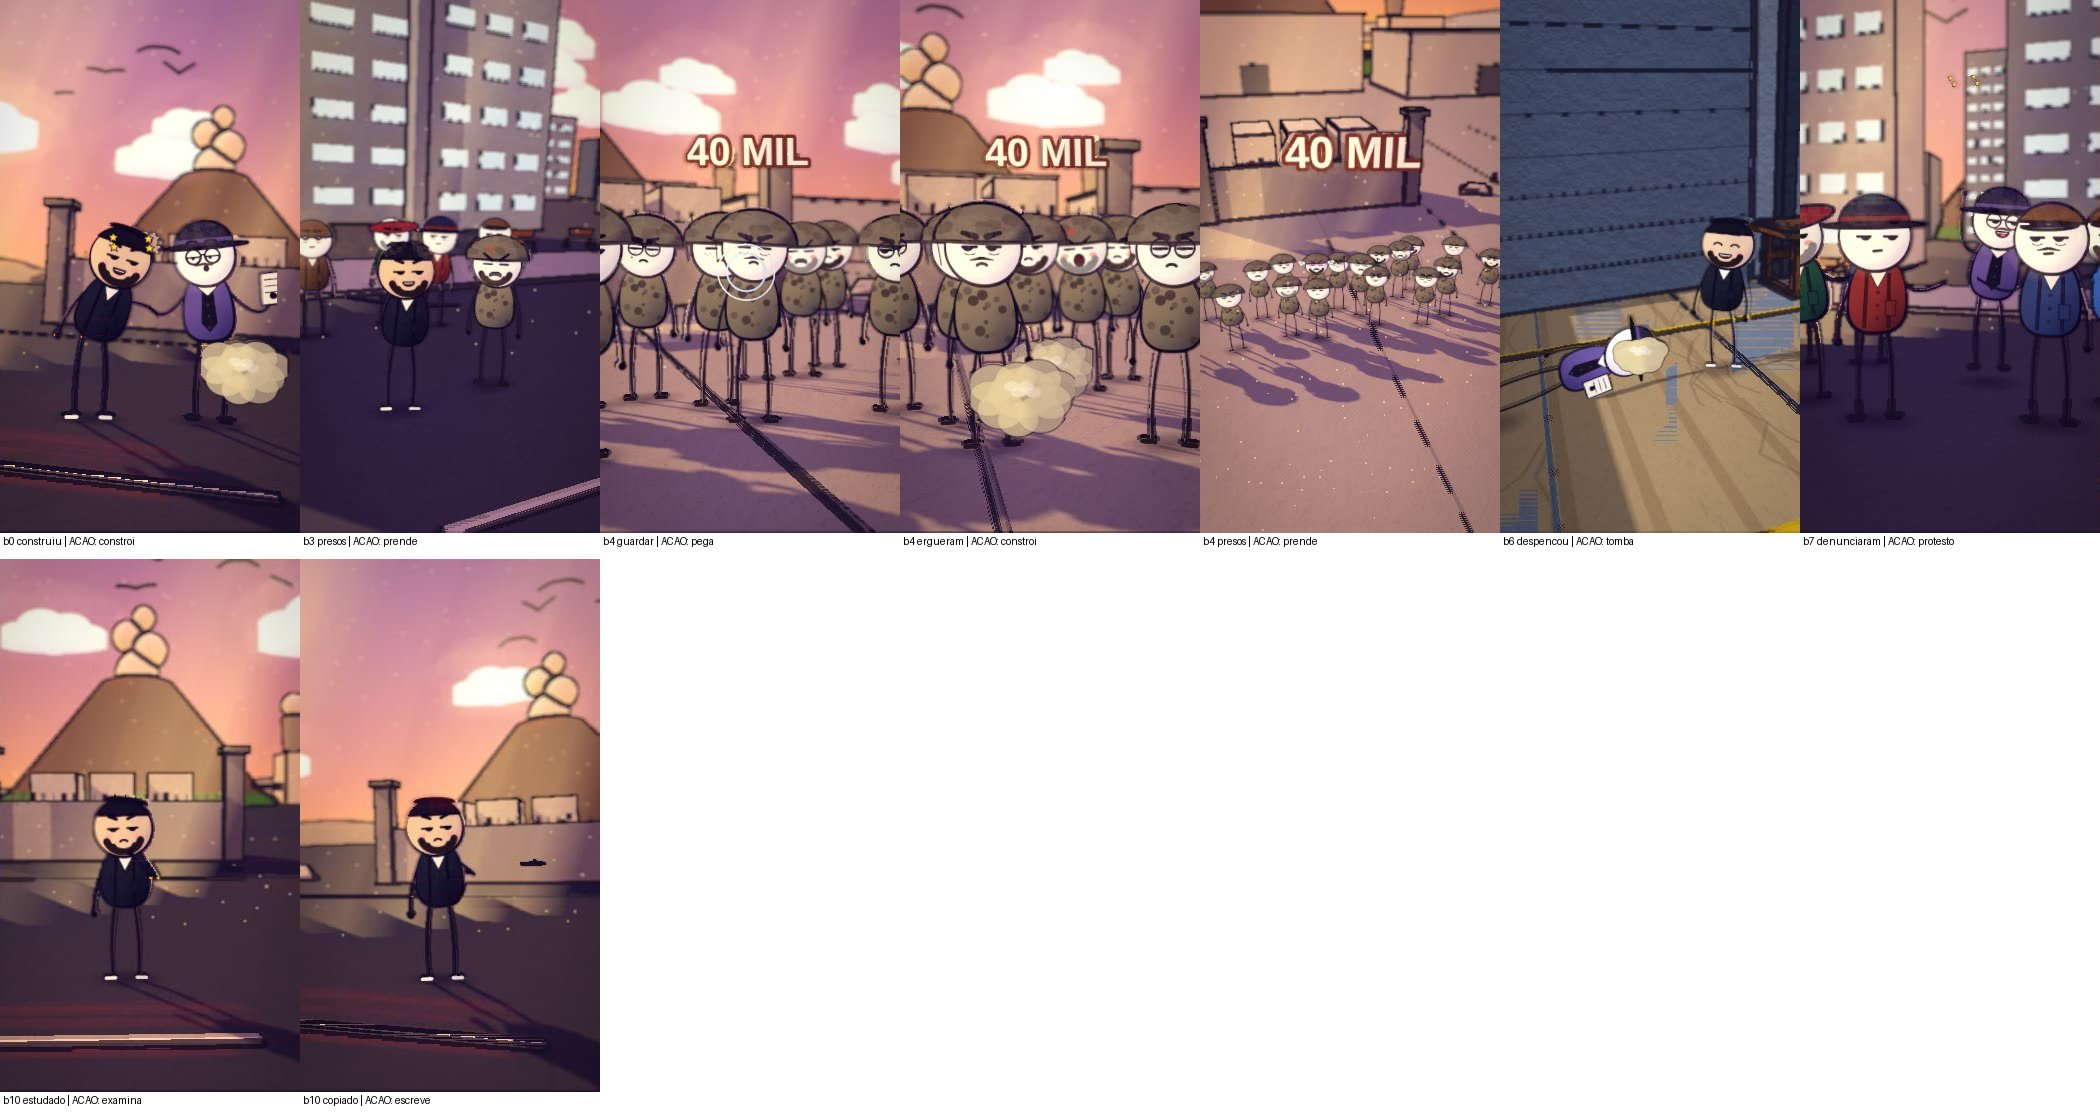
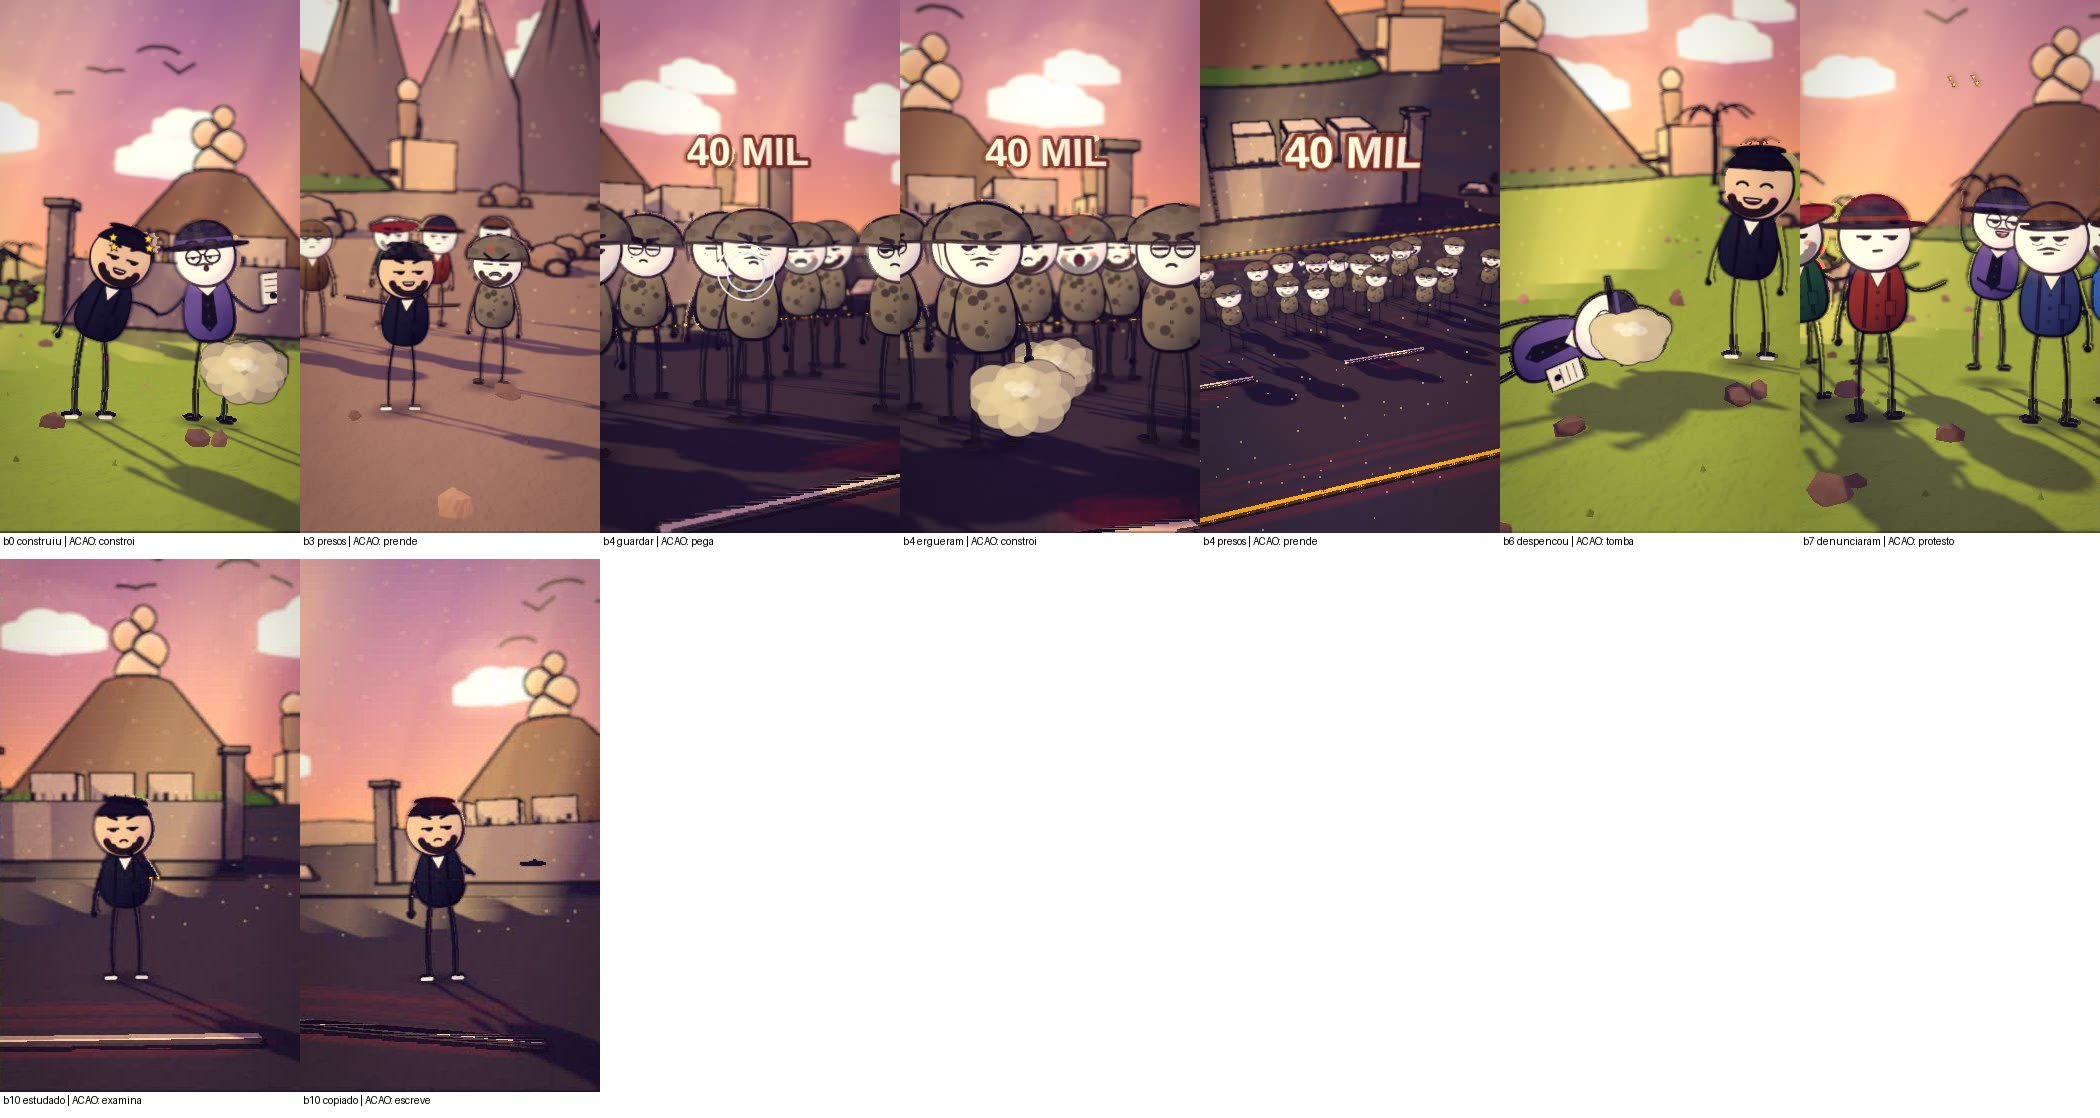
cecot2023: pendencia do motor
Claude-Session: https://claude.ai/code/session_01HE8Dy2wiQov2uhW6ZYikBX

diff --git a/ferramenta-shorts/stories/cecot2023/cronograma.md b/ferramenta-shorts/stories/cecot2023/cronograma.md
@@ -1,6 +1,6 @@
 # CRONOGRAMA - Poder e Fama EP 27 - A Maior Prisão das Américas
 
-Gerado em 24/11 03:27 | 12 cenas | metricas: acoes_encenadas 100%, acoes_chave_com_efeito 100%, explicacoes_cobertas 100%, cenario_e_epoca_ok 100%
+Gerado em 24/11 03:28 | 12 cenas | metricas: acoes_encenadas 100%, acoes_chave_com_efeito 100%, explicacoes_cobertas 100%, cenario_e_epoca_ok 100%
 
 ## 1. Plano de cenas (o que cada frase vai mostrar)
 
@@ -30,13 +30,13 @@ N | Etapa | O que confere | Estado | Proximo passo
 5 | Voz | narracao neural gerada e tempos por palavra | FEITO | 
 6 | Estilo e enquadramento | autoajuste de luz/cor e ajuste de camera de cada tomada | FEITO | 
 7 | Gates | camera OK, todas as tomadas OK, estilo OK | FEITO | 
-8 | Storyboard e grade de acoes | video inteiro em quadros + 1 quadro no instante de cada acao | PENDENTE | 
-9 | Revisao escrita e aprovacao | uma linha por frase conferindo com a folha 3 e com o quadro da pesquisa | BLOQUEADO (etapa anterior pendente) | ./aprovar_storyboard.sh cecot2023
+8 | Storyboard e grade de acoes | video inteiro em quadros + 1 quadro no instante de cada acao | FEITO | 
+9 | Revisao escrita e aprovacao | uma linha por frase conferindo com a folha 3 e com o quadro da pesquisa | PENDENTE | ./aprovar_storyboard.sh cecot2023
 10 | Render | todos os quadros renderizados nesta versao das folhas | BLOQUEADO (etapa anterior pendente) | 
 11 | Montagem e som | trechos + voz + musica + efeitos; volume normalizado | BLOQUEADO (etapa anterior pendente) | 
 12 | Conferencia | conferir.sh sem falha e folha de contato olhada | BLOQUEADO (etapa anterior pendente) | ./conferir.sh cecot2023
 13 | Auditoria das acoes | 1 quadro do mp4 em cada palavra de acao | BLOQUEADO (etapa anterior pendente) | bash auditar_acoes.sh local cecot2023 <mp4>
 14 | Entrega | mp4 original 1080x1920 enviado; commit e push | BLOQUEADO (etapa anterior pendente) | 
 
-**Etapa atual:** 8. Storyboard e grade de acoes
+**Etapa atual:** 9. Revisao escrita e aprovacao
 

diff --git a/ferramenta-shorts/pendencias_motor/A_cecot2023.md b/ferramenta-shorts/pendencias_motor/A_cecot2023.md
@@ -1,0 +1,5 @@
+# A_cecot2023 (24/11)
+Roteiro corrigido (cenarios rurais variados, sem batalha, explica na b5). Storyboard 2 olhado: lugar e acoes ok, MAS:
+1. kit/volcano (regra "el salvador|san salvador" em mkvideo.py ~268) aparece atras em quase todas as cenas, inclusive nas que nao citam o lugar (b0, b1, b4, b6, b9, b10). Mesmo defeito do A_bukele2024.md item 2.
+2. b6 ("assassinatos despencaram") e b7 ("mortes sob custodia") nao tem como mostrar numero/queda: ficam dois bonecos conversando.
+Nao aprovei o storyboard. Aguardo a principal decidir se o vulcao e' aceitavel ou se corrige o motor.

diff --git a/ferramenta-shorts/stories/bukele2024/cronograma.md b/ferramenta-shorts/stories/bukele2024/cronograma.md
@@ -1,6 +1,6 @@
 # CRONOGRAMA - Poder e Fama EP 26 - O Presidente dos 85 por Cento
 
-Gerado em 24/11 03:26 | 12 cenas | metricas: acoes_encenadas 100%, acoes_chave_com_efeito 100%, explicacoes_cobertas 100%, cenario_e_epoca_ok 100%
+Gerado em 24/11 03:28 | 12 cenas | metricas: acoes_encenadas 100%, acoes_chave_com_efeito 100%, explicacoes_cobertas 100%, cenario_e_epoca_ok 100%
 
 ## 1. Plano de cenas (o que cada frase vai mostrar)
 
